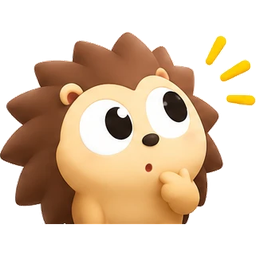
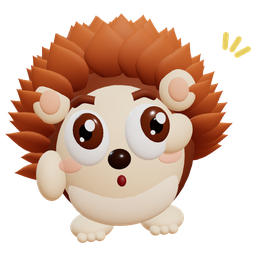
Owi según su hoja de diseño oficial: púas en hoja, paleta y rasgos; animaciones e ilustraciones regeneradas
Claude-Session: https://claude.ai/code/session_01HLnQv3HZtotnGzv56s2ETj

diff --git a/tools/owi/anim/src/Hedgehog.tsx b/tools/owi/anim/src/Hedgehog.tsx
@@ -16,17 +16,92 @@ import { Confetti, Floating, Heart, lerp, tube } from './common';
 
 const OWI_URL = './owi_prepared.glb';
 
+// Paleta oficial (hoja de diseño de Owi): crema, marrón medio, marrón oscuro, blanco y negro.
 const C = {
-  quill: '#683619',
-  fur: '#F5C477',
-  belly: '#FAD593',
-  earInner: '#E3A879',
-  nose: '#3A2216',
-  ink: '#2B1A12',
-  mouth: '#5A2A1C',
-  tongue: '#F07B7B',
+  quill: '#7A3A17', // cuerpo bajo las púas
+  leafBase: '#7A3412',
+  leafTip: '#C06632',
+  fur: '#F9D7B0',
+  belly: '#FDE3C6',
+  earInner: '#EFA98A',
+  nose: '#3A1D10',
+  ink: '#5A260F', // cejas y trazos (marrón oscuro)
+  iris: '#6A3313',
+  pupil: '#170B05',
+  mouth: '#7A1C12',
+  tongue: '#F27C74',
   blush: '#FF9C8C',
+  band: '#EE5A2A',
 };
+
+/**
+ * Púas estilizadas en forma de hoja (hoja de diseño): ordenadas, del mismo volumen,
+ * forman una melena alrededor de la cara y cubren espalda y cabeza.
+ */
+function leafGeometry() {
+  const g = new THREE.SphereGeometry(0.5, 18, 14);
+  const pos = g.attributes.position as THREE.BufferAttribute;
+  const col = new Float32Array(pos.count * 3);
+  const a = new THREE.Color(C.leafBase);
+  const b = new THREE.Color(C.leafTip);
+  for (let i = 0; i < pos.count; i++) {
+    const x = pos.getX(i);
+    const y = pos.getY(i);
+    const z = pos.getZ(i);
+    const u = y + 0.5; // 0 base → 1 punta
+    const w = Math.pow(Math.sin(Math.PI * Math.pow(u, 0.85)), 0.75); // hoja ancha, punta suave
+    const bend = -0.14 * u * u; // la punta se pega al cuerpo (como escamas)
+    pos.setXYZ(i, x * w * 0.78, u, z * w * 0.24 + bend);
+    const c = a.clone().lerp(b, Math.min(1, u * 1.15));
+    col[i * 3] = c.r;
+    col[i * 3 + 1] = c.g;
+    col[i * 3 + 2] = c.b;
+  }
+  g.setAttribute('color', new THREE.BufferAttribute(col, 3));
+  g.computeVertexNormals();
+  return g;
+}
+
+function LeafQuills() {
+  const leaves = useMemo(() => {
+    const out: { p: THREE.Vector3; q: THREE.Quaternion; s: number }[] = [];
+    const c = new THREE.Vector3(0, 0.7, -0.1);
+    const R = new THREE.Vector3(0.6, 0.64, 0.56);
+    const N = 240;
+    const fwd = new THREE.Vector3(0, 0, 1);
+    for (let i = 0; i < N; i++) {
+      const y = 1 - (2 * (i + 0.5)) / N;
+      const r = Math.sqrt(1 - y * y);
+      const th = i * 2.399963;
+      const n = new THREE.Vector3(Math.cos(th) * r, y, Math.sin(th) * r);
+      const ang = Math.acos(n.dot(fwd)); // ángulo con el frente
+      if (ang < 0.98) continue; // hueco de la cara
+      if (n.y < -0.42) continue; // barriga y pies
+      if (n.y < -0.1 && n.z > 0.1) continue;
+      const p = c.clone().add(new THREE.Vector3(n.x * R.x, n.y * R.y, n.z * R.z).multiplyScalar(0.86));
+      // Dirección de la punta: hacia fuera, algo hacia arriba y hacia atrás
+      const d = n.clone().add(new THREE.Vector3(0, 0.22, 0)).add(new THREE.Vector3(0, 0, -0.12)).normalize();
+      const q = new THREE.Quaternion().setFromUnitVectors(new THREE.Vector3(0, 1, 0), d);
+      // Cara plana de la hoja mirando hacia fuera
+      const zAxis = new THREE.Vector3(0, 0, 1).applyQuaternion(q);
+      const want = n.clone().sub(d.clone().multiplyScalar(n.dot(d))).normalize();
+      const twist = Math.atan2(new THREE.Vector3().crossVectors(zAxis, want).dot(d), zAxis.dot(want));
+      q.premultiply(new THREE.Quaternion().setFromAxisAngle(d, twist));
+      const s = 0.4 + 0.08 * Math.max(0, n.y) + (i % 3) * 0.012;
+      out.push({ p, q, s });
+    }
+    return out;
+  }, []);
+  const geo = useMemo(leafGeometry, []);
+  const mat = useMemo(() => new THREE.MeshStandardMaterial({ vertexColors: true, roughness: 0.62 }), []);
+  return (
+    <group>
+      {leaves.map((l, i) => (
+        <mesh key={i} geometry={geo} material={mat} position={l.p} quaternion={l.q} scale={l.s} />
+      ))}
+    </group>
+  );
+}
 
 // Anclas de la cara (coordenadas del modelo preparado)
 const EYE = { x: 0.215, y: 0.79, z: 0.6 };
@@ -127,9 +202,13 @@ function Eye({ side, look, blink }: { side: 1 | -1; look: Look; blink: React.Ref
         <meshStandardMaterial color="#FFFFFF" roughness={0.15} />
       </mesh>
       <group position={[gx, gy, 0.06]}>
-        <mesh scale={[0.105, 0.125, 0.05]}>
+        <mesh scale={[0.112, 0.132, 0.05]}>
           <sphereGeometry args={[1, 28, 20]} />
-          <meshStandardMaterial color={C.ink} roughness={0.15} />
+          <meshStandardMaterial color={C.iris} roughness={0.2} />
+        </mesh>
+        <mesh position={[0, 0, 0.022]} scale={[0.064, 0.076, 0.035]}>
+          <sphereGeometry args={[1, 24, 16]} />
+          <meshStandardMaterial color={C.pupil} roughness={0.1} />
         </mesh>
         <mesh position={[0.035, 0.045, 0.045]} scale={[0.038, 0.042, 0.02]}>
           <sphereGeometry args={[1, 16, 12]} />
@@ -158,7 +237,7 @@ function Eye({ side, look, blink }: { side: 1 | -1; look: Look; blink: React.Ref
 }
 
 function Brow({ side, look }: { side: 1 | -1; look: Look }) {
-  const geo = useMemo(() => tube([[-0.07, -0.008, 0], [0, 0.012, 0.01], [0.07, -0.008, 0]], 0.022), []);
+  const geo = useMemo(() => tube([[-0.085, -0.012, 0], [0, 0.018, 0.012], [0.085, -0.012, 0]], 0.032), []);
   // Interior arriba = preocupación; "angry" = interior abajo (decidido, deporte).
   const a = look.angry ? side * -0.45 : side * -look.brow;
   const y = BROW_Y + (look.brow < 0 ? 0.03 : 0) + (look.angry ? -0.04 : 0);
@@ -336,6 +415,7 @@ export default function Hedgehog({
     model.traverse((o) => {
       const m = o as THREE.Mesh;
       if (!m.isMesh) return;
+      if (m.name === 'quills') m.visible = false;
       m.material =
         m.name === 'quills' || m.name === 'body'
           ? mats.quill
@@ -436,6 +516,7 @@ export default function Hedgehog({
     <group ref={root} position={position} scale={LEVELS[level].scale * size}>
       <group ref={body}>
         <primitive object={model} />
+        <LeafQuills />
         <Eye side={-1} look={look} blink={blink} />
         <Eye side={1} look={look} blink={blink} />
         <Brow side={-1} look={look} />
@@ -450,10 +531,10 @@ export default function Hedgehog({
         {mood === 'sport' && (
           <group position={[0, 1.1, -0.02]} rotation={[-0.15, 0, 0]}>
             <mesh rotation={[Math.PI / 2, 0, 0]}>
-              <torusGeometry args={[0.45, 0.055, 12, 40]} />
-              <meshStandardMaterial color="#FFFFFF" roughness={0.7} />
+              <torusGeometry args={[0.47, 0.06, 12, 48]} />
+              <meshStandardMaterial color={C.band} roughness={0.7} />
             </mesh>
-            {[-0.035, 0.035].map((dy) => (
+            {[].map((dy: number) => (
               <mesh key={dy} position={[0, dy, 0]} rotation={[Math.PI / 2, 0, 0]}>
                 <torusGeometry args={[0.455, 0.018, 8, 40]} />
                 <meshStandardMaterial color="#D9342B" roughness={0.6} />

diff --git a/src/components/OwiStage.tsx b/src/components/OwiStage.tsx
@@ -116,8 +116,8 @@ export default function OwiStage({
             <Arc c0={c0} r={c0 - w * 3.1} value={rings.food} color={RING.food} w={w} />
           </Svg>
         </Animated.View>
-        <View style={{ marginTop: size * 0.04 }}>
-          <OwiAnimated mood={mood} level={level} size={size * 0.74} onPress={onPressOwi} label={label} />
+        <View style={{ marginTop: size * 0.02 }}>
+          <OwiAnimated mood={mood} level={level} size={size * 0.84} onPress={onPressOwi} label={label} shadow={false} />
         </View>
       </View>
       {children}

diff --git a/docs/PERSONAJES.md b/docs/PERSONAJES.md
@@ -4,15 +4,16 @@ Desde la versión 0.5 los personajes son **2D**: más ligeros, sin fallos de 3D 
 aspecto en web, iPhone y Android.
 
 ## Owi (erizo, la mascota)
-- 12 ilustraciones del diseño en `assets/owi/<emoción>.png` (fondo transparente, 256 px):
-  `happy`, `attentive`, `caringHigh`, `worriedHigh`, `caringLow`, `worriedLow`, `celebrate`,
-  `sleep`, `confused`, `remind`, `sport`, `missYou`.
-- La app las anima (`src/components/OwiAnimated.tsx`): respira, salta, se balancea, tiembla,
-  flota dormido o corre según la emoción, y reacciona al tocarlo.
-- Evoluciona con el vínculo: crece un poco y gana insignias (pañuelo, gorro, medalla).
-- Para mejorar la calidad: entregar las 12 ilustraciones a 512 px con fondo transparente y
-  los mismos nombres. Opcional: animaciones Lottie con esos nombres.
-- El modelo 3D original del diseño se conserva en `assets/owi/source/` por si se recupera el 3D.
+- **Hoja de diseño oficial**: `docs/owi/hoja-diseno-owi.webp` (vistas, poses, paleta, proporciones 1:1 y rasgos faciales).
+  - Paleta: crema `#FEDDB9` (cara, barriga, manos y pies), marrón medio `#D0783B` (púas en forma de hoja),
+    marrón oscuro `#753315` (cejas, nariz y detalles), blanco (brillos) y negro (pupilas).
+  - Púas estilizadas en forma de hoja, ordenadas, que forman una melena alrededor de la cara.
+  - Ojos grandes marrones con dos brillos, cejas gruesas, cinta deportiva naranja solo en deporte.
+- **Animaciones** (12 emociones, bucles tipo GIF a 20 fps): se renderizan desde el modelo 3D siguiendo la
+  hoja de diseño con el estudio `tools/owi/anim` y se reproducen en 2D con `src/components/OwiSprite.tsx`.
+- **Ilustraciones fijas** (`assets/owi/<emoción>.png`, 256 px) para el chat, los widgets y las miniaturas:
+  salen del mismo render, así que todo es coherente.
+- Evoluciona con el vínculo: crece un poco con el nivel.
 
 ## Avatar del usuario
 - Busto ilustrado en SVG (`src/components/AvatarFace.tsx`): tono de piel, forma de cara,
